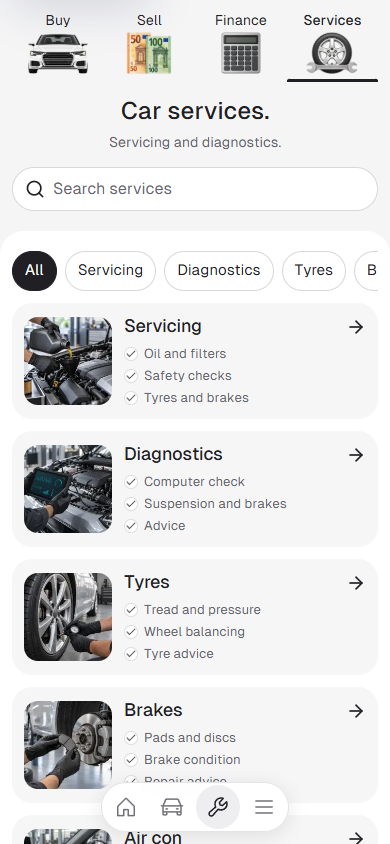
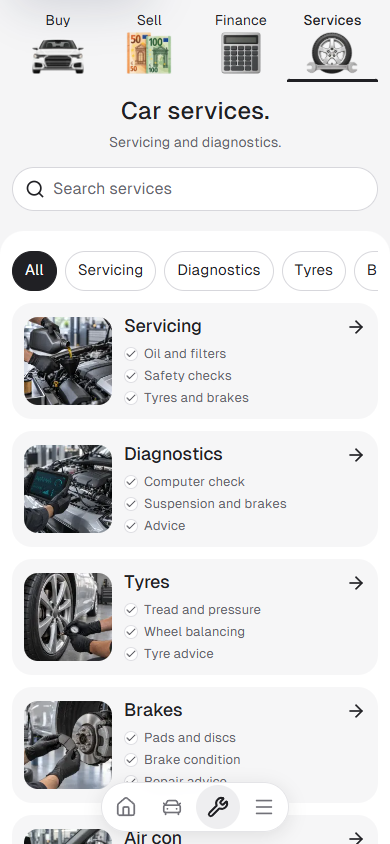
Finalize App mobile pill hierarchy and navigation balance

diff --git a/templates/app/components/InventoryClient.tsx b/templates/app/components/InventoryClient.tsx
@@ -204,7 +204,7 @@ const s=stylex.create({
  phoneHeading:{display:{[media.mobile]:'block',default:'none'}},
  topInner:{maxWidth:$.content,marginInline:'auto',paddingTop:4,paddingInline:{[media.mobile]:12,default:28}},
  searchFirst:{display:{[media.mobile]:'flex',default:'block'},alignItems:'center',gap:8,position:{[media.mobile]:'sticky',default:'static'},top:{[media.mobile]:0,default:'auto'},zIndex:{[media.mobile]:65,default:'auto'},paddingTop:{[media.mobile]:'calc(4px + env(safe-area-inset-top))',default:4},paddingBottom:{[media.mobile]:4,default:0},backgroundColor:$.surface},
- compactSearchField:{flexGrow:{[media.mobile]:1,default:0},flexBasis:{[media.mobile]:0,default:'auto'},height:{[media.mobile]:40,default:'auto'},minHeight:{[media.mobile]:40,default:44},minWidth:0},
+ compactSearchField:{flexGrow:{[media.mobile]:1,default:0},flexBasis:{[media.mobile]:0,default:'auto'},height:{[media.mobile]:44,default:'auto'},minHeight:44,minWidth:0},
  compactSearchEntry:{minHeight:{[media.mobile]:44,default:40}},
  compactSearchClear:{width:{[media.mobile]:44,default:42},height:{[media.mobile]:44,default:42}},
  compactActions:{display:{[media.mobile]:'flex',default:'none'},flexShrink:0,gap:8},
@@ -250,7 +250,7 @@ const s=stylex.create({
  railButton:{display:{[media.mobile]:'flex',default:'block'},alignItems:'center',flexShrink:0,width:{[media.mobile]:'auto',default:'100%'},minHeight:{[media.mobile]:44,[media.desktop]:44,default:57},paddingInline:{[media.mobile]:0,default:14},textAlign:'left',color:$.ink,fontFamily:$.fontSans,fontSize:14,fontWeight:{[media.desktop]:400,default:500},whiteSpace:{[media.mobile]:'nowrap',default:'normal'},borderWidth:0,borderRadius:{[media.mobile]:9999,[media.desktop]:8,default:0},backgroundColor:'transparent',outlineOffset:{[media.mobile]:-5,default:null},cursor:'pointer'},
  railActive:{color:{[media.mobile]:'#fff',[media.desktop]:'#fff',default:$.ink},backgroundColor:{[media.mobile]:'transparent',[media.desktop]:$.ink,default:'#fff'},outlineColor:{[media.mobile]:{default:null,':focus-visible':'#fff'},default:null}},
  // A smaller visible pill keeps the full mobile tap target.
- railLabel:{display:{[media.mobile]:'inline-flex',default:'contents'},alignItems:'center',justifyContent:'center',minHeight:36,paddingInline:12,fontSize:{[media.mobile]:13,default:'inherit'},lineHeight:{[media.mobile]:'20px',default:'inherit'},borderRadius:9999,backgroundColor:{[media.mobile]:'#f4f4f5',default:'transparent'}},
+ railLabel:{display:{[media.mobile]:'inline-flex',default:'contents'},alignItems:'center',justifyContent:'center',minHeight:36,paddingInline:12,fontSize:{[media.mobile]:14,default:'inherit'},lineHeight:{[media.mobile]:'20px',default:'inherit'},borderRadius:9999,backgroundColor:{[media.mobile]:'#f4f4f5',default:'transparent'}},
  railLabelActive:{backgroundColor:{[media.mobile]:$.ink,default:null}},
  pane:{gridColumn:{[media.desktop]:2,default:null},gridRow:{[media.desktop]:'1 / 3',default:null},marginTop:{[media.desktop]:12,default:0},marginRight:{[media.desktop]:12,default:0},marginBottom:{[media.desktop]:12,default:0},minWidth:0,minHeight:0,flexGrow:1,overflowY:'auto',overscrollBehaviorY:'contain',scrollbarWidth:{[media.mobile]:'none',default:'thin'},padding:{[media.mobile]:'8px 12px 22px',[media.desktop]:'20px 56px 24px 24px',default:'18px 20px 22px 19px'},borderRadius:{[media.desktop]:14,default:0},backgroundColor:{[media.desktop]:'#fff',default:'transparent'}},
  filterFooter:{display:'grid',gridColumn:{[media.desktop]:'1 / -1',default:null},gridRow:{[media.desktop]:3,default:null},alignItems:{[media.desktop]:'center',default:null},justifyContent:'space-between',gridTemplateColumns:{[media.desktop]:'216px minmax(0,1fr) auto',[media.mobile]:'88px minmax(0,1fr)',default:'34% minmax(0,1fr)'},flexShrink:0,gap:{[media.desktop]:12,default:8},minHeight:{[media.mobile]:56,[media.desktop]:72,default:68},paddingTop:{[media.mobile]:6,[media.desktop]:12,default:12},paddingBottom:{[media.mobile]:'calc(6px + env(safe-area-inset-bottom))',[media.desktop]:12,default:'calc(12px + env(safe-area-inset-bottom))'},paddingInline:{[media.mobile]:12,[media.desktop]:24,default:22},borderTopWidth:0,borderTopStyle:'solid',borderTopColor:$.line,backgroundColor:{[media.desktop]:'#f7f7f7',default:'#fff'}},

diff --git a/templates/app/components/ReferenceUI.tsx b/templates/app/components/ReferenceUI.tsx
@@ -21,7 +21,7 @@ export function ServiceTabs({active,compact=false,onDark=false}: {active:Service
 
   return <nav aria-label={tx("Car services")} {...stylex.props(s.tabs)}>{showroom.services.map(tab => <Link key={tab.key} href={tab.href} aria-label={tx(tab.key === 'finance' ? 'Finance navigation' : tab.label)} aria-current={active===tab.key?'page':undefined} {...stylex.props(s.tab,active===tab.key&&s.tabActive,onDark&&active===tab.key&&s.tabOnDarkActive,compact&&s.tabCompact)}>
     <span {...stylex.props(s.tabTitle,t.navigation,active===tab.key&&s.tabTitleActive,compact&&s.tabTitleCompact,compact&&active===tab.key&&s.tabTitleCompactActive,compact&&onDark&&s.tabTitleOnDark,compact&&onDark&&active===tab.key&&s.tabTitleOnDarkActive)}>{tx(tab.key === 'finance' ? 'Finance navigation' : tab.label)}</span>
-    {!compact ? <span aria-hidden="true" {...stylex.props(s.tabArtworkBox)}><ServiceTabArtwork image={tab.image} mobileImage={tab.mobileTabImage} mobileViewBox={tab.mobileTabViewBox}/></span> : null}
+    {!compact ? <span aria-hidden="true" {...stylex.props(s.tabArtworkBox)}><ServiceTabArtwork image={tab.image} mobileImage={tab.mobileTabImage} mobileViewBox={tab.mobileTabViewBox} service={tab.key}/></span> : null}
     {active===tab.key?<span aria-hidden="true" {...stylex.props(s.tabIndicator,compact&&s.tabIndicatorCompact)}/>:null}
   </Link>)}</nav>;
 }
@@ -30,13 +30,13 @@ export function ShowroomPromotion() {
   return <DealerHomeBanner/>;
 }
 
-function ServiceTabArtwork({image, mobileImage, mobileViewBox}: {image: string; mobileImage: string; mobileViewBox: string}) {
+function ServiceTabArtwork({image, mobileImage, mobileViewBox, service}: {image: string; mobileImage: string; mobileViewBox: string; service: ServiceKey}) {
   const common = {alt: '', fill: true, sizes: '(max-width: 767px) 90px, 160px'};
   const {props: desktop} = getImageProps({...common, src: assetPath(image)});
   const {props: mobile} = getImageProps({alt: '', src: assetPath(mobileImage), width: 96, height: 64});
   // Frame the painted artwork, not each file's unequal transparent margins.
   // The 1536 x 1024 source coordinate system also fits the proportional WebP.
-  return <><img {...desktop} alt="" {...stylex.props(s.tabArt,s.tabDesktopArt)}/><svg viewBox={mobileViewBox} preserveAspectRatio="xMidYMax meet" aria-hidden="true" focusable="false" {...stylex.props(s.tabMobileArt)}><image href={mobile.src} width={1536} height={1024}/></svg></>;
+  return <><img {...desktop} alt="" {...stylex.props(s.tabArt,s.tabDesktopArt)}/><svg viewBox={mobileViewBox} preserveAspectRatio="xMidYMax meet" aria-hidden="true" focusable="false" {...stylex.props(s.tabMobileArt,service==='buy'&&s.tabMobileBuy)}><image href={mobile.src} width={1536} height={1024}/></svg></>;
 }
 
 export function BrandEmblem({make,plain=false}: {make: string;plain?: boolean}) {
@@ -98,6 +98,7 @@ const s=stylex.create({
  tabArt:{objectFit:'contain'},
  tabDesktopArt:{display:{[media.mobile]:'none',default:'block'}},
  tabMobileArt:{display:{[media.mobile]:'block',default:'none'},width:'100%',height:'100%'},
+ tabMobileBuy:{transform:{[media.mobile]:'scale(.86)',default:'none'},transformOrigin:'center bottom'},
  tabTitle:{position:{[media.mobile]:'static',default:'absolute'},top:16,left:0,right:0,maxWidth:'100%',textAlign:'center',zIndex:1,whiteSpace:'pre-line',overflowWrap:'anywhere',letterSpacing:0},
  tabTitleActive:{fontWeight:{[media.mobile]:500,default:400}},
  sectionTitle:{fontSize:{[media.mobile]:18,default:25},fontWeight:{[media.mobile]:600,default:500},lineHeight:1.35,color:$.text},

diff --git a/templates/app/components/ShowroomIcon.tsx b/templates/app/components/ShowroomIcon.tsx
@@ -3,18 +3,8 @@ import {CarFront, CreditCard, Heart, House, Mail, MapPin, Menu, Phone, Tag, Wren
 const icons = {home: House, cars: CarFront, saved: Heart, more: Menu, sell: Tag, finance: CreditCard, service: Wrench, location: MapPin, phone: Phone, email: Mail};
 export type ShowroomIconName = keyof typeof icons;
 
-/** Phosphor Regular artwork; MIT license and sources are in docs/licenses/phosphor-icons-source.md. */
-const dockArtwork: Partial<Record<ShowroomIconName, {viewBox: string; path: string}>> = {
-  home: {viewBox: '0 -4 256 256', path: 'M219.31,108.68l-80-80a16,16,0,0,0-22.62,0l-80,80A15.87,15.87,0,0,0,32,120v96a8,8,0,0,0,8,8h64a8,8,0,0,0,8-8V160h32v56a8,8,0,0,0,8,8h64a8,8,0,0,0,8-8V120A15.87,15.87,0,0,0,219.31,108.68ZM208,208H160V152a8,8,0,0,0-8-8H104a8,8,0,0,0-8,8v56H48V120l80-80,80,80Z'},
-  cars: {viewBox: '0 -4 256 256', path: 'M240,104H229.2L201.42,41.5A16,16,0,0,0,186.8,32H69.2a16,16,0,0,0-14.62,9.5L26.8,104H16a8,8,0,0,0,0,16h8v80a16,16,0,0,0,16,16H64a16,16,0,0,0,16-16V184h96v16a16,16,0,0,0,16,16h24a16,16,0,0,0,16-16V120h8a8,8,0,0,0,0-16ZM69.2,48H186.8l24.89,56H44.31ZM64,200H40V184H64Zm128,0V184h24v16Zm24-32H40V120H216ZM56,144a8,8,0,0,1,8-8H80a8,8,0,0,1,0,16H64A8,8,0,0,1,56,144Zm112,0a8,8,0,0,1,8-8h16a8,8,0,0,1,0,16H176A8,8,0,0,1,168,144Z'},
-  service: {viewBox: '0 0 256 256', path: 'M226.76,69a8,8,0,0,0-12.84-2.88l-40.3,37.19-17.23-3.7-3.7-17.23,37.19-40.3A8,8,0,0,0,187,29.24,72,72,0,0,0,88,96,72.34,72.34,0,0,0,94,124.94L33.79,177c-.15.12-.29.26-.43.39a32,32,0,0,0,45.26,45.26c.13-.13.27-.28.39-.42L131.06,162A72,72,0,0,0,232,96,71.56,71.56,0,0,0,226.76,69ZM160,152a56.14,56.14,0,0,1-27.07-7,8,8,0,0,0-9.92,1.77L67.11,211.51a16,16,0,0,1-22.62-22.62L109.18,133a8,8,0,0,0,1.77-9.93,56,56,0,0,1,58.36-82.31l-31.2,33.81a8,8,0,0,0-1.94,7.1L141.83,108a8,8,0,0,0,6.14,6.14l26.35,5.66a8,8,0,0,0,7.1-1.94l33.81-31.2A56.06,56.06,0,0,1,160,152Z'},
-  more: {viewBox: '0 0 256 256', path: 'M224,128a8,8,0,0,1-8,8H40a8,8,0,0,1,0-16H216A8,8,0,0,1,224,128ZM40,72H216a8,8,0,0,0,0-16H40a8,8,0,0,0,0,16ZM216,184H40a8,8,0,0,0,0,16H216a8,8,0,0,0,0-16Z'},
-};
-
-/** Shared navigation symbols; size changes by context, colour follows the theme. */
+/** One icon family throughout the showroom; dock strokes keep their pixel weight. */
 export default function ShowroomIcon({name, size = 28, strokeWidth = 1.75, dock = false}: {name: ShowroomIconName; size?: number; strokeWidth?: number; dock?: boolean}) {
-  const artwork = dock ? dockArtwork[name] : undefined;
-  if (artwork) return <svg width={size + 2} height={size + 2} viewBox={artwork.viewBox} fill="currentColor" aria-hidden="true" focusable="false" data-dock-icon={name}><path d={artwork.path}/></svg>;
   const Icon = icons[name];
-  return <Icon size={size} strokeWidth={strokeWidth} absoluteStrokeWidth={dock} aria-hidden="true"/>;
+  return <Icon size={size} strokeWidth={strokeWidth} absoluteStrokeWidth={dock} aria-hidden="true" data-dock-icon={dock ? name : undefined}/>;
 }

diff --git a/templates/app/components/DealerMobileBanner.tsx b/templates/app/components/DealerMobileBanner.tsx
@@ -21,7 +21,7 @@ export default function DealerMobileBanner({title, description, secondary, child
         {title ? <><h1 id={titleId} {...stylex.props(s.title)}>{tx(title)}</h1>{description ? <p {...stylex.props(s.description)}>{tx(description)}</p> : null}</> : <h1 id={titleId} {...stylex.props(s.brand)}><DealerBrand hero onDark mobileOnLight/></h1>}
         {secondary}
       </div>
-      <div {...stylex.props(s.control, controlOnly && s.compactControl)}>{children}</div>
+      <div {...stylex.props(s.control, !title && !controlOnly && s.homeControl, controlOnly && s.compactControl)}>{children}</div>
     </section>
   </ShowroomBannerFrame></div>;
 }
@@ -45,6 +45,7 @@ const s = stylex.create({
   title: {fontSize: {[media.mobile]: 24, default: 28}, fontWeight: 500, lineHeight: 1.2, textWrap: 'balance'},
   description: {color: {[media.mobile]: $.muted, default: '#d1d1d5'}, fontSize: 14, lineHeight: '20px'},
   control: {position: 'relative', width: '100%', maxWidth: 640, marginInline: 'auto', padding: {[media.mobile]: '0 12px 20px', default: '0 28px 24px'}},
+  homeControl: {padding: {[media.mobile]: '0 12px 12px', default: null}},
   compactControl: {padding: {[media.mobile]: '4px 12px 0', default: null}},
   action: {width: '100%', color: '#202024', backgroundColor: {default: $.surface, ':hover': $.surfaceAlt}, textAlign: 'left', cursor: 'pointer', outlineColor: {':focus-visible': {[media.mobile]: $.ink, default: '#fff'}}, outlineOffset: 3},
   plainMobileAction: {backgroundColor: {default: $.surface, ':hover': $.surfaceAlt}, outlineColor: {':focus-visible': {default: '#fff', [media.mobile]: '#242428'}}, outlineOffset: {[media.mobile]: 2, default: 3}},

diff --git a/templates/app/docs/mobile-nav-final-2026-10-10/README.md b/templates/app/docs/mobile-nav-final-2026-10-10/README.md
@@ -2,9 +2,11 @@
 
 Preview: `http://127.0.0.1:6506`. Canonical source: `L:/CODEX/cars/templates/app`, Cars `main`. Node 22.20.0; existing Next.js 16.3.8 webpack preview and installed dependencies reused.
 
-Sell uses the image-generated straight euro-note artwork, with upright sides and aligned flat lower edges. The other three artwork files remain unchanged. All four illustrations share the same 64 × 42px mobile frame and visible bottom baseline through individual source view boxes. The previous Sell scaling workaround is removed. Tab heights, labels, selected underline and compact-on-scroll behavior remain intact.
+Sell uses the image-generated straight euro-note artwork, with upright sides and aligned flat lower edges. The other three artwork files remain unchanged. All four illustrations share the same 64 × 42px mobile frame and visible bottom baseline through individual source view boxes. Following the owner's visual correction, Buy is optically scaled to 86% from its bottom center, bringing the wide car back close to its previous painted size without raising its bottom edge. The previous Sell scaling workaround is removed. Tab heights, labels, selected underline and compact-on-scroll behavior remain intact.
 
-Cars and Services quick pill labels use regular 15px type on mobile, up from 14px. Painted pill sizes, 44px hit targets and wider-screen typography remain unchanged. The existing compact dock's icon family, layout and 44px links are retained and checked.
+Cars and Services quick pill labels use regular 15px type on mobile, up from 14px, with 40px painted surfaces and 44px hit targets. Brand/Model drawer tabs use 14px labels, 36px painted surfaces and the same 44px hit targets. Cars search is now 44px tall, matching Services, with 16px text. Home alone loses 8px of lower banner padding to move the existing brand circles closer to search. Tablet and desktop styles remain unchanged.
+
+The four dock icons now use the existing Lucide library throughout, replacing the separately copied Phosphor paths with consistent rounded strokes. The compact dock layout, active state and 44px links remain intact; no dependency was added.
 
 ## Matched 390px comparison
 
@@ -13,10 +15,10 @@ Cars and Services quick pill labels use regular 15px type on mobile, up from 14p
 | ![Services before](before-service-390.png) | ![Services after](after-service-390.png) |
 | ![Cars before](before-cars-390.png) | ![Cars after](after-cars-390.png) |
 
-Exactly four captures are retained: two matched route pairs covering the header, underline, dock and both pill consumers. Compact geometry and interaction results are retained alongside them. The generated original and one web derivative are source artwork, not QA intermediates.
+Four comparison captures are retained here: two matched route pairs covering the header, underline, dock and both pill consumers. Compact geometry and interaction results are retained alongside them. The generated original and one web derivative are source artwork, not QA intermediates.
 
 ## Focused validation
 
-ESLint for the three changed code files and TypeScript without emit passed on Node 22.20.0. Browser checks cover 320px Buy/Sell/Finance/Services and Bulgarian Services; 390px Cars/Services; common artwork frame baseline; service category filtering/reset; compact header on scroll; Sell navigation; Cars dock navigation; Brand drawer and Escape dismissal; 44px dock links; no document overflow or browser errors. Wider 768px/1440px checks confirm the mobile SVG artwork is hidden and previous image paths retained. The existing root HTML produces Next's advisory about declaring smooth scroll behavior during route transitions; the exact warning is retained in the browser result.
+ESLint for the changed code files and TypeScript without emit passed on Node 22.20.0. Browser checks cover 320px Buy/Sell/Finance/Services and Bulgarian Services; 390px Cars/Services; common artwork frame baseline; service category filtering/reset; compact header on scroll; Sell navigation; Cars dock navigation; Brand drawer and Escape dismissal; 44px dock links; no document overflow or browser errors. Final Brand/Model and service drawer checks include selection/reset, the last horizontally scrolling service pill and 320px/390px target geometry. Wider 768px/1440px checks confirm the mobile SVG artwork is hidden and previous image paths retained. The existing root HTML produces Next's advisory about declaring smooth scroll behavior during route transitions; the exact warning is retained in the browser result.
 
 See `verification.json`, `after-checks.json` and `before-checks.json`. Source commit/push is separate from deployment and dealer release selection; this task does not change the approved template lock.

diff --git a/templates/app/public/showroom/navigation/EURO-NOTES-V2-PROMPT.md b/templates/app/public/showroom/navigation/EURO-NOTES-V2-PROMPT.md
@@ -14,4 +14,4 @@ Parameter: `transparent_background: true`.
 
 ## Mobile rendering
 
-`lib/showroom.ts` records each mobile tab artwork's view box in its original 1536 × 1024 coordinate system. Bounds use the solid silhouette with 12px of source margin to preserve edge antialiasing. `ServiceTabArtwork` fits these frames into the same 64 × 42px slot with a shared bottom baseline. This accounts for unequal transparent canvas margins without stretching or rotating the artwork. Buy, Finance and Services retain their original asset files. Tablet and desktop use their previous image path and geometry.
+`lib/showroom.ts` records each mobile tab artwork's view box in its original 1536 × 1024 coordinate system. Bounds use the solid silhouette with 12px of source margin to preserve edge antialiasing. `ServiceTabArtwork` fits these frames into the same 64 × 42px slot with a shared bottom baseline. The wide Buy car uses an optical 86% scale from the bottom center, following the owner's size correction. This accounts for unequal transparent canvas margins without stretching or rotating the artwork. Buy, Finance and Services retain their original asset files. Tablet and desktop use their previous image path and geometry.
